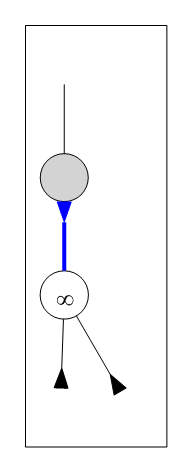
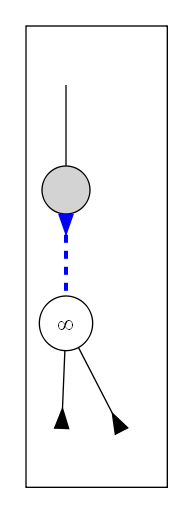
Update the edge styles for Figure 13.

diff --git a/waterfallpaper.tex b/waterfallpaper.tex
@@ -593,7 +593,7 @@ For each waterfall pass, the three sub-passes of the method are invoked sequenti
 	\subfigure[NF/AI]{\includegraphics[height=5cm]{segmentation-waterfall-smg-mergecases-nfai.png}}%
 	\hspace{4mm}
 	\subfigure[NF/AO]{\includegraphics[height=5cm]{segmentation-waterfall-smg-mergecases-nfao.png}}%
-\caption[Case analysis for step 2(b) of the BW method]{Case analysis for step 2(b) of the BW method (a blue edge indicates that the edge would be contracted; a red edge indicates that it wouldn't). The labels are AI = ambiguously in, AO = ambiguously out, NF = no flow, UI = unambiguously in and UO = unambiguously out.}
+\caption[Case analysis for step 2(b) of the BW method]{Case analysis for step 2(b) of the BW method (a blue/dashed edge indicates that the edge would be contracted; a red/solid edge indicates that it wouldn't). The labels are AI = ambiguously in, AO = ambiguously out, NF = no flow, UI = unambiguously in and UO = unambiguously out.}
 \label{fig:segmentation-waterfall-smg-mergecases}
 \end{stusubfig}
 %---
